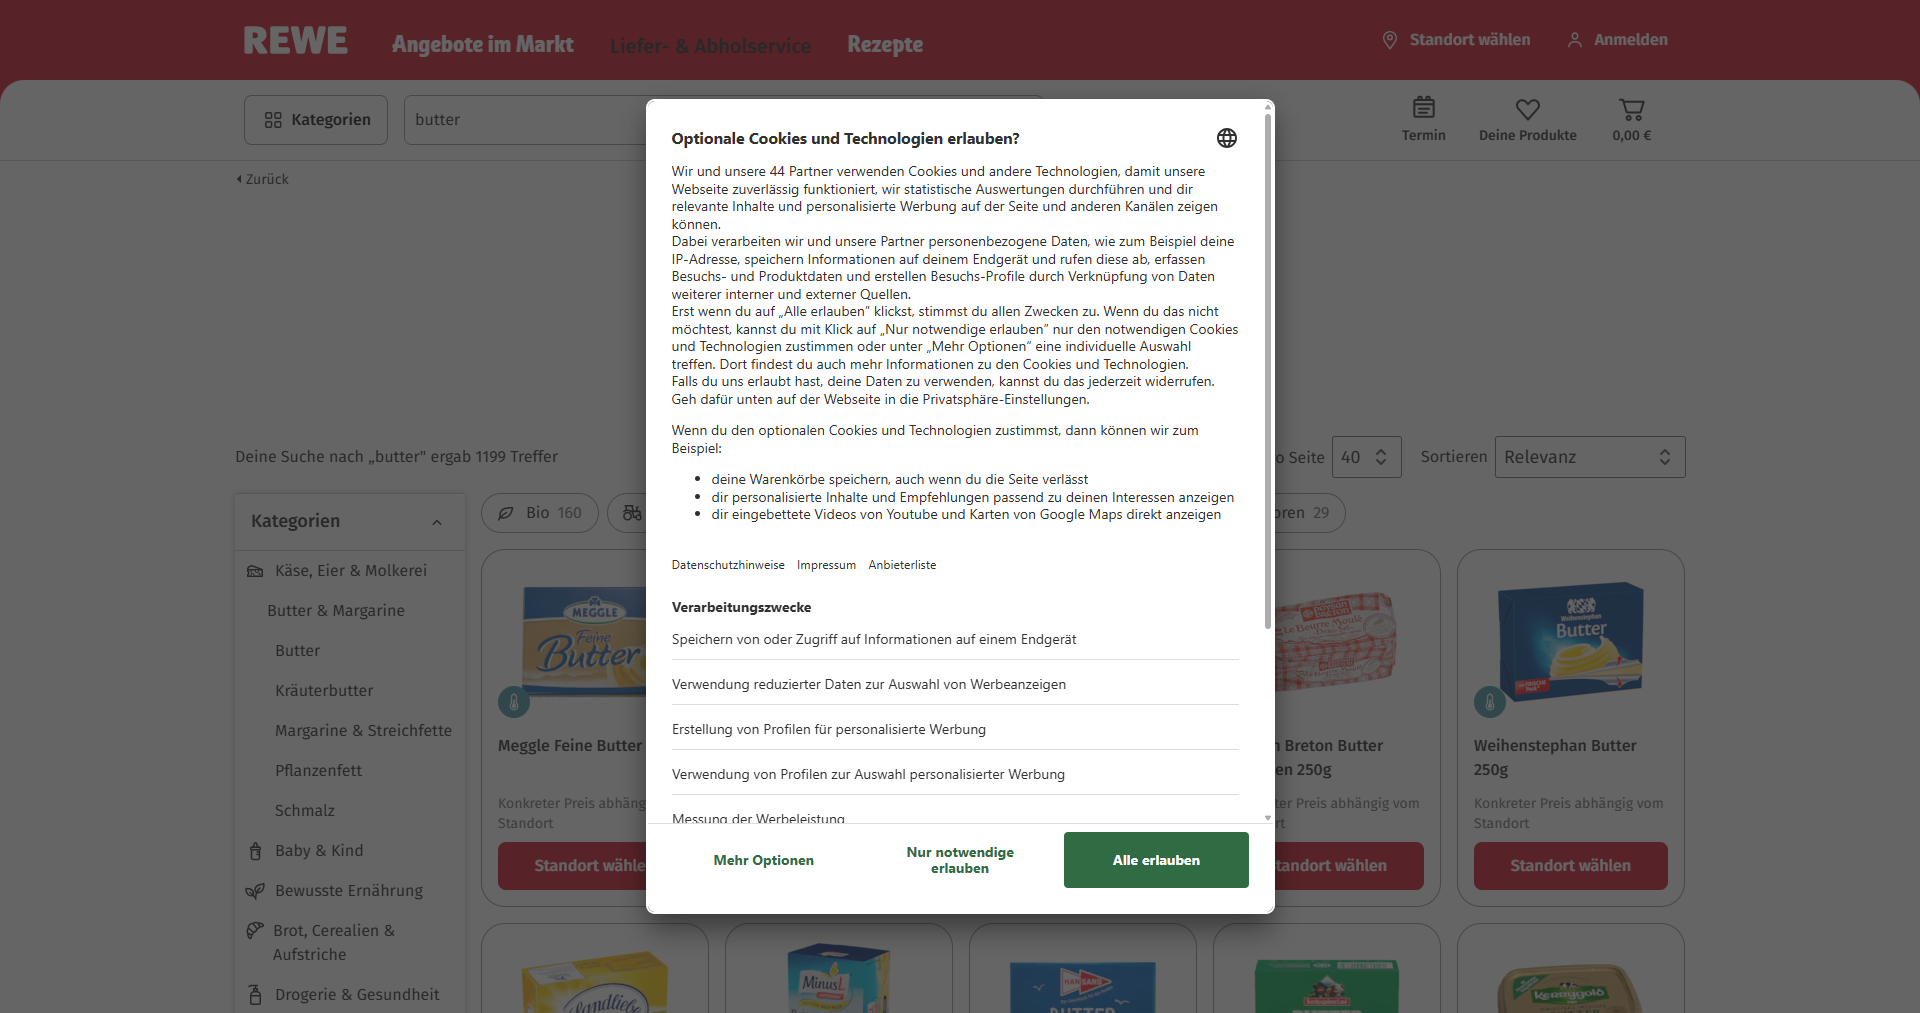
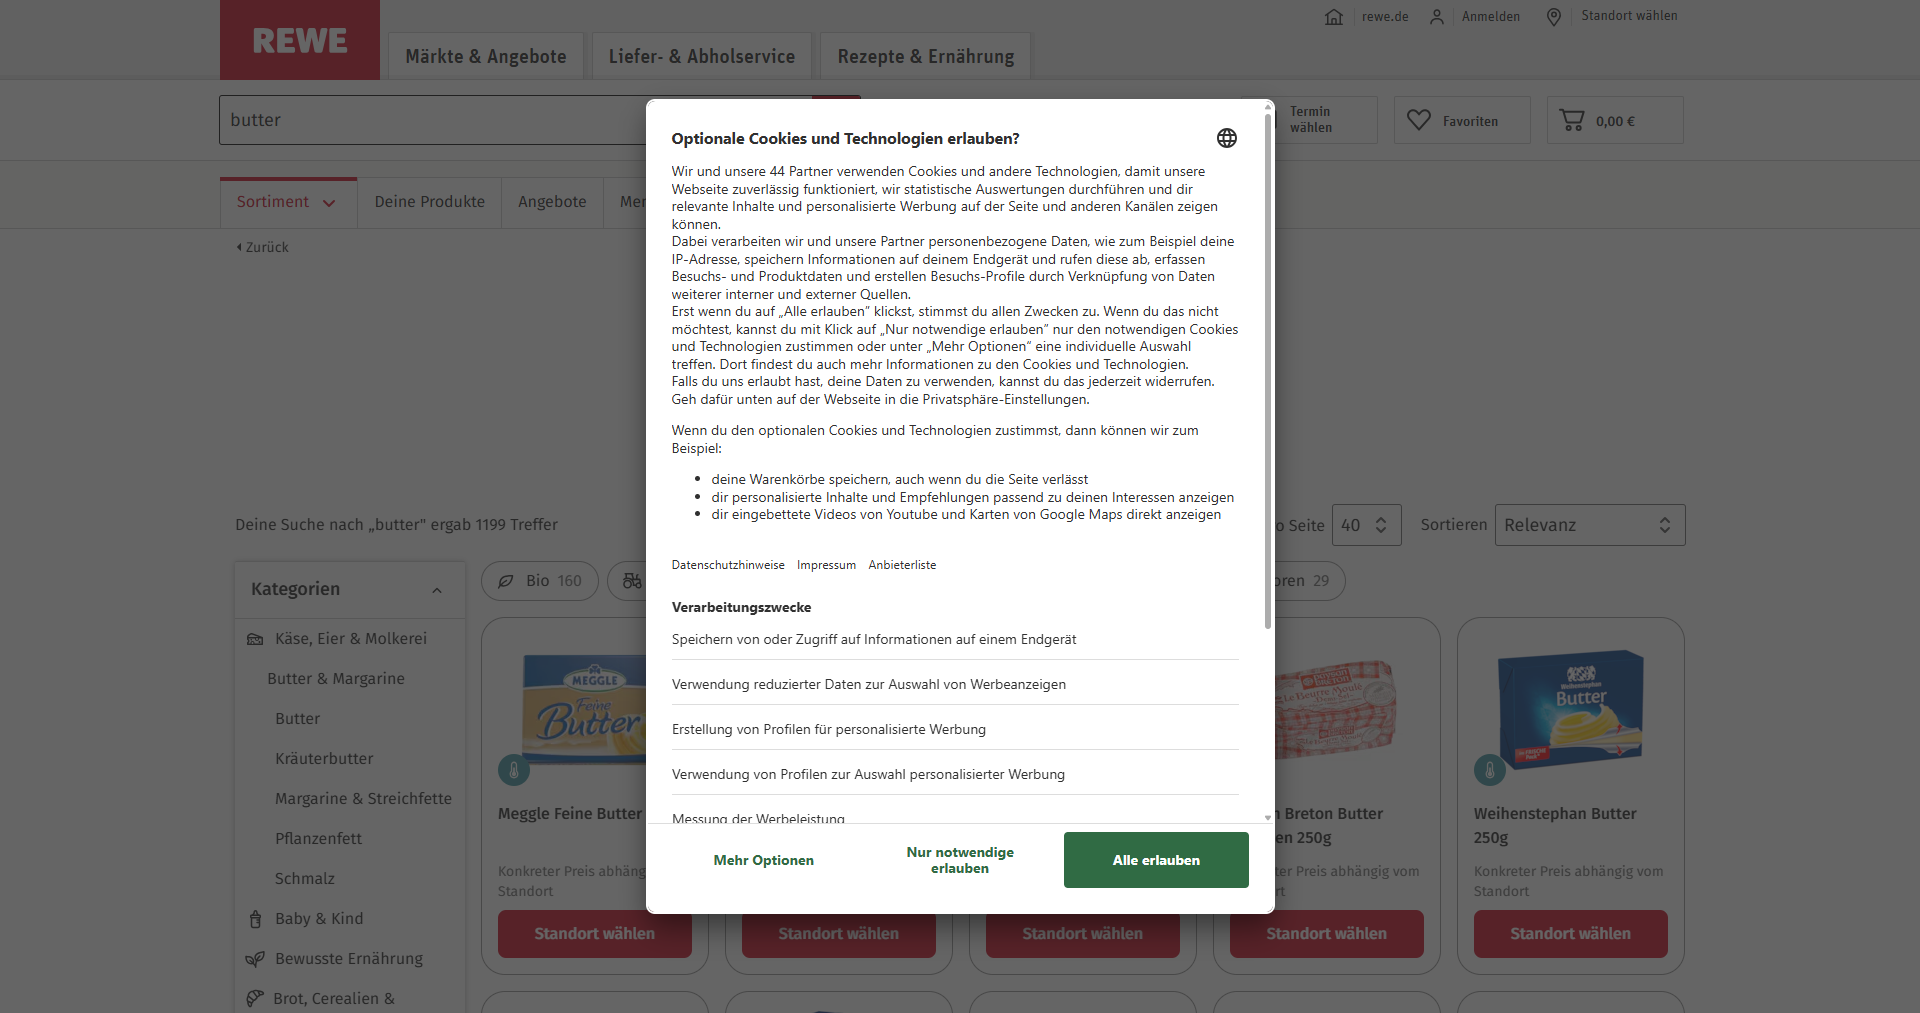
I reckon Chrome must be crashing because I don’t have write permissions. So I should try it on a different file system.

diff --git a/scraper/rewe.py b/scraper/rewe.py
@@ -8,7 +8,6 @@ log = logging.getLogger(__name__)
 
 class ReweScraper(BaseScraper):
     def __init__(self, plz: str = None):
-        # Wir starten auf der echten, existierenden Hauptseite des Shops
         super().__init__("https://www.rewe.de/shop/", plz=plz)
 
     def extract_logic(self, page, kategorie: str = "butter") -> List[dict]:
@@ -20,10 +19,9 @@ class ReweScraper(BaseScraper):
             page.goto(self.start_url, wait_until="domcontentloaded", timeout=20000)
             page.wait_for_timeout(3000)
         except Exception as e:
-            log.warning(f"Hauptseite laden dauerte zu lange, versuche fortzufahren... {e}")
+            log.warning(f"Hauptseite laden dauerte lang, fahre fort... {e}")
 
-        # 2. Absolut radikaler Cookie-Bypass via JS (damit nichts den Klick blockiert)
-        log.info("Entferne Cookie-Banner aus dem Weg...")
+        # 2. Cookie-Banner per JavaScript restlos entfernen
         try:
             page.evaluate("""
                 const root = document.getElementById('usercentrics-root');
@@ -33,13 +31,41 @@ class ReweScraper(BaseScraper):
                 document.body.style.overflow = 'auto';
             """)
             page.wait_for_timeout(1000)
+            log.info("Cookie-Banner erfolgreich entfernt.")
         except Exception as e:
             log.debug(f"Cookie-Bypass fehlgeschlagen: {e}")
 
-        # 3. JETZT DIE SUCHE ÜBER DAS SEITEN-SUCHFELD AUSFÜHREN
+        # 3. Marktauswahl (nur wenn PLZ übergeben wurde und der Button da ist)
+        if self.plz:
+            log.info(f"Versuche Markt auf PLZ {self.plz} einzustellen...")
+            try:
+                market_btn = page.locator(
+                    "header button:has-text('Markt'), button:has-text('Service'), .market-selector-trigger")
+                # Wir prüfen, ob der Button sichtbar und KLICKBAR (enabled) ist
+                if market_btn.first.is_visible(timeout=3000) and market_btn.first.is_enabled():
+                    market_btn.first.click(force=True)
+                    page.wait_for_timeout(1500)
+
+                    input_field = page.locator(
+                        "input[placeholder*='Postleitzahl'], input[placeholder*='PLZ'], input[id*='market']")
+                    if input_field.first.is_visible(timeout=2000):
+                        input_field.first.fill(self.plz)
+                        page.wait_for_timeout(500)
+                        input_field.first.press("Enter")
+                        page.wait_for_timeout(1500)
+
+                        # Ersten Markt bestätigen falls nötig
+                        select_btn = page.locator("button:has-text('Auswählen'), .select-market-btn").first
+                        if select_btn.is_visible(timeout=2000):
+                            select_btn.click(force=True)
+                            page.wait_for_timeout(2000)
+                        log.info(f"Markt erfolgreich auf {self.plz} gesetzt.")
+            except Exception as market_error:
+                log.warning(f"Marktauswahl übersprungen oder fehlgeschlagen (nicht kritisch): {market_error}")
+
+        # 4. Suche ausführen
         try:
             log.info(f"Suche nach Begriff: {kategorie}")
-            # Robustes Finden des Suchfelds
             search_input = page.locator(
                 "input[type='search'], input[name='searchWord'], input[placeholder*='suchen']").first
 
@@ -48,35 +74,23 @@ class ReweScraper(BaseScraper):
             page.wait_for_timeout(500)
             search_input.press("Enter")
 
-            # Warten, bis die Trefferseite lädt
+            # Warten auf Suchergebnisse
             page.wait_for_selector("main, div[class*='product'], div[class*='tiles'], .search-service-productTile",
                                    timeout=12000)
 
-            # Ein bisschen scrollen, um Lazy-Loading-Bilder und Preise zu laden
+            # Scrollen für Lazy-Loading
             page.evaluate("window.scrollBy(0, 800);")
             page.wait_for_timeout(2000)
         except Exception as e:
             log.error(f"Fehler bei der Ausführung der Suche: {e}")
-            # Wir machen trotzdem einen Screenshot zur Diagnose
-            try:
-                page.screenshot(path="rewe_such_fehler.png")
-            except:
-                pass
             return []
 
-        # ---- KONTROLL-SCREENSHOT ----
-        try:
-            page.screenshot(path="rewe_suchergebnisse.png")
-            log.info("Kontroll-Screenshot 'rewe_suchergebnisse.png' gespeichert.")
-        except Exception:
-            pass
-
-        # 4. HTML parsen
+        # 5. HTML auslesen & parsen
         html = page.content()
         soup = BeautifulSoup(html, "html.parser")
 
         rewe_karten = soup.select(
-            "[class*='product-card'], [class*='ProductCard'], [data-testid='product-tile'], .search-service-productTile, article")
+            "[class*='product-card'], [class*='ProductCard'], [data-testid='product-tile'], article")
         log.info(f"Anzahl gefundener HTML-Strukturen bei REWE: {len(rewe_karten)}")
 
         alle_produkte = []
@@ -103,7 +117,6 @@ class ReweScraper(BaseScraper):
                     continue
                 preis = float(preis_digits)
 
-                # Cent-Korrektur (falls REWE z.B. 159 statt 1.59 liefert)
                 if preis > 50.0 and "." not in preis_clean:
                     preis = preis / 100.0
 
@@ -121,7 +134,7 @@ class ReweScraper(BaseScraper):
             except Exception:
                 continue
 
-        # 5. Filter & Synonyme
+        # 6. Filter & Synonyme
         gefilterte_produkte = []
         suchwort = kategorie.lower()
         synonyme = [suchwort]
@@ -144,7 +157,7 @@ class ReweScraper(BaseScraper):
                 })
                 log.info(f"   [REWE-TREFFER] {produkt_name_original} -> {p['preis']:.2f} €")
 
-        # 6. Duplikate entfernen
+        # 7. Duplikate entfernen
         seen = set()
         unique = []
         for p in gefilterte_produkte:

diff --git a/core/base.py b/core/base.py
@@ -1,6 +1,7 @@
 # core/base.py
 
 import os
+import tempfile
 import getpass
 import time
 from abc import ABC, abstractmethod
@@ -55,8 +56,8 @@ class BaseScraper(ABC):
         if kategorie.lower() == "butter":
             name_lower = produkt_name.lower().replace("-", "").strip()
 
-            # Wenn sie IMMER NOCH leer ist, füllen wir sie manuell mit den wichtigsten Notfall-Wörtern,
-            # damit dein Scraper JETZT SOFORT funktioniert, selbst wenn die Textdatei gelöscht wurde!
+         # Wenn sie IMMER NOCH leer ist, füllen wir sie manuell mit den wichtigsten Notfall-Wörtern,
+         # damit mein Scraper JETZT SOFORT funktioniert, selbst wenn die Textdatei gelöscht wurde!
             effektive_stoppwoerter = self.stoppwoerter if self.stoppwoerter else ["keks", "schmalz", "milch", "toast",
                                                                                   "waffel"]
 
@@ -79,34 +80,16 @@ class BaseScraper(ABC):
 
             #user_data_dir = f"C:\\Users\\{username}\\AppData\\Local\\Google\\Chrome\\User Data\\PlaywrightProfile"
 
-            ################################################################################
-
-            import os  # Falls nicht schon ganz oben importiert!
-
             # 1. Namen des Scrapers holen (z.B. aldiscraper)
             scraper_name = self.__class__.__name__.lower()
 
-            # 2. Den echten Windows-Usernamen ermitteln (sehr robust)
-            username = os.getlogin()
+            # 2. RADIKAL-FIX: Ich meide den Benutzer-Ordner komplett wegen DOS-8.3-Kürzeln (A591F~1.GOE)
+            user_data_dir = f"C:\\playwright_profiles\\profile_{scraper_name}"
 
-            # 3. Den Pfad sauber und absolut immun gegen Backslash-Fehler zusammenbauen
-            user_data_dir = os.path.join(
-                "C:\\Users",
-                username,
-                "AppData",
-                "Local",
-                "Google",
-                "Chrome",
-                "User Data",
-                f"PlaywrightProfile_{scraper_name}"
-            )
+            log.info(f"Nutze isoliertes Profil-Verzeichnis: {user_data_dir}")
 
             # Kleiner Kontroll-Log, damit du genau siehst, wo er hinspringt:
             log.info(f"Nutze isoliertes Profil-Verzeichnis: {user_data_dir}")
-
-            ################################################################################
-
-
 
             # Falls der Ordner nicht existiert, erstellt Python ihn vollautomatisch
             os.makedirs(user_data_dir, exist_ok=True)
@@ -128,11 +111,12 @@ class BaseScraper(ABC):
 
                 page = context.pages[0] if context.pages else context.new_page()
 
-                # Zur Startseite surfen
-                page.goto(self.start_url, wait_until="domcontentloaded", timeout=30000)
+        # Zur Startseite surfen - page goto machen aber die Kindklassen, hier will ich also Ressourcen schonen, daher habe ich das ding auskommentiert.
+
+                #page.goto(self.start_url, wait_until="domcontentloaded", timeout=30000)
                 time.sleep(1)
 
-                # Meine Scraper-Logik ausführen
+        # Meine Scraper-Logik ausführen
                 products = self.extract_logic(page, kategorie)
                 return products if isinstance(products, list) else []
 

diff --git a/scraper/lidl.py b/scraper/lidl.py
@@ -1,0 +1,1 @@
+# TODO: Implement this!